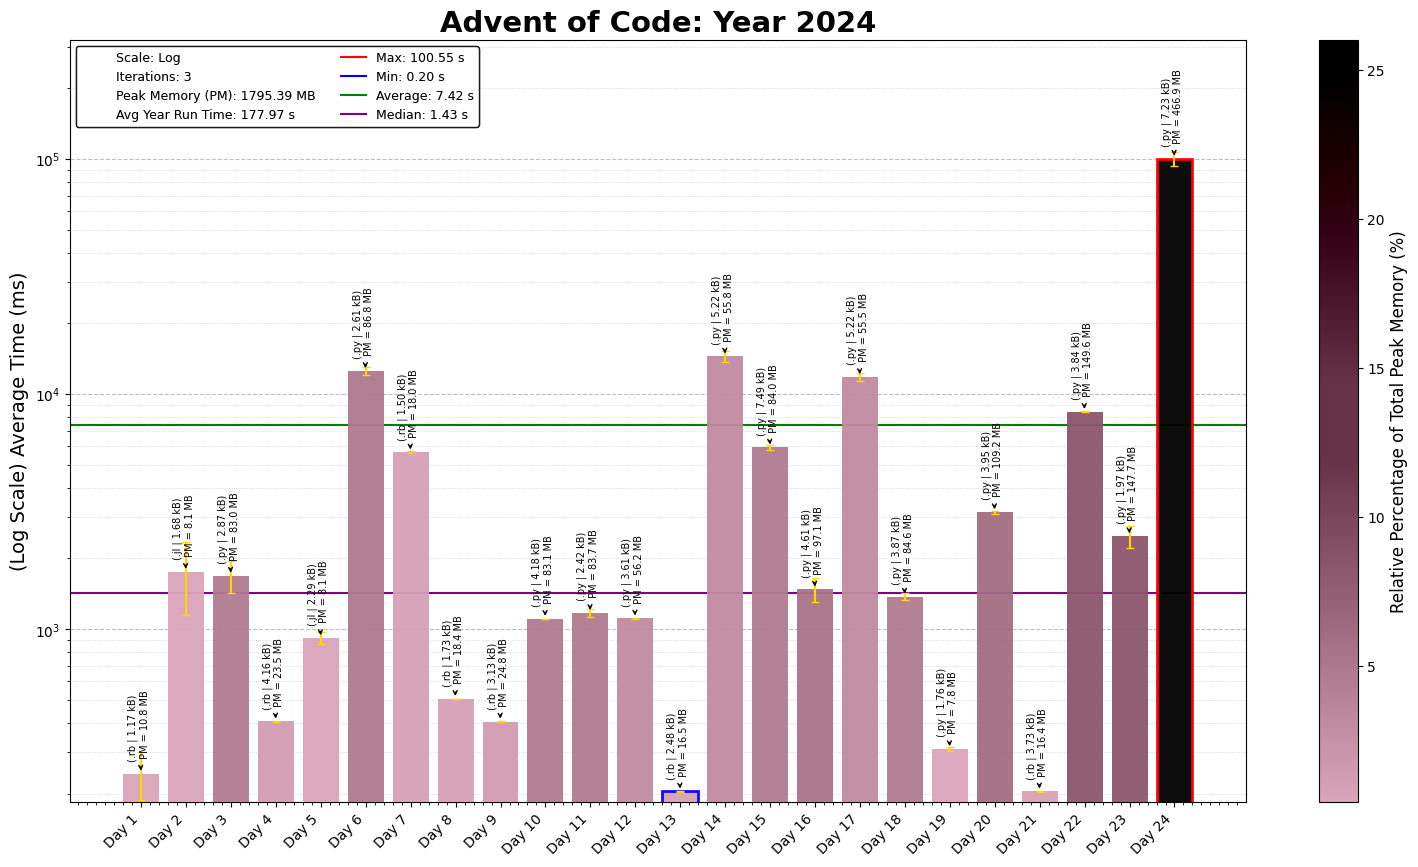
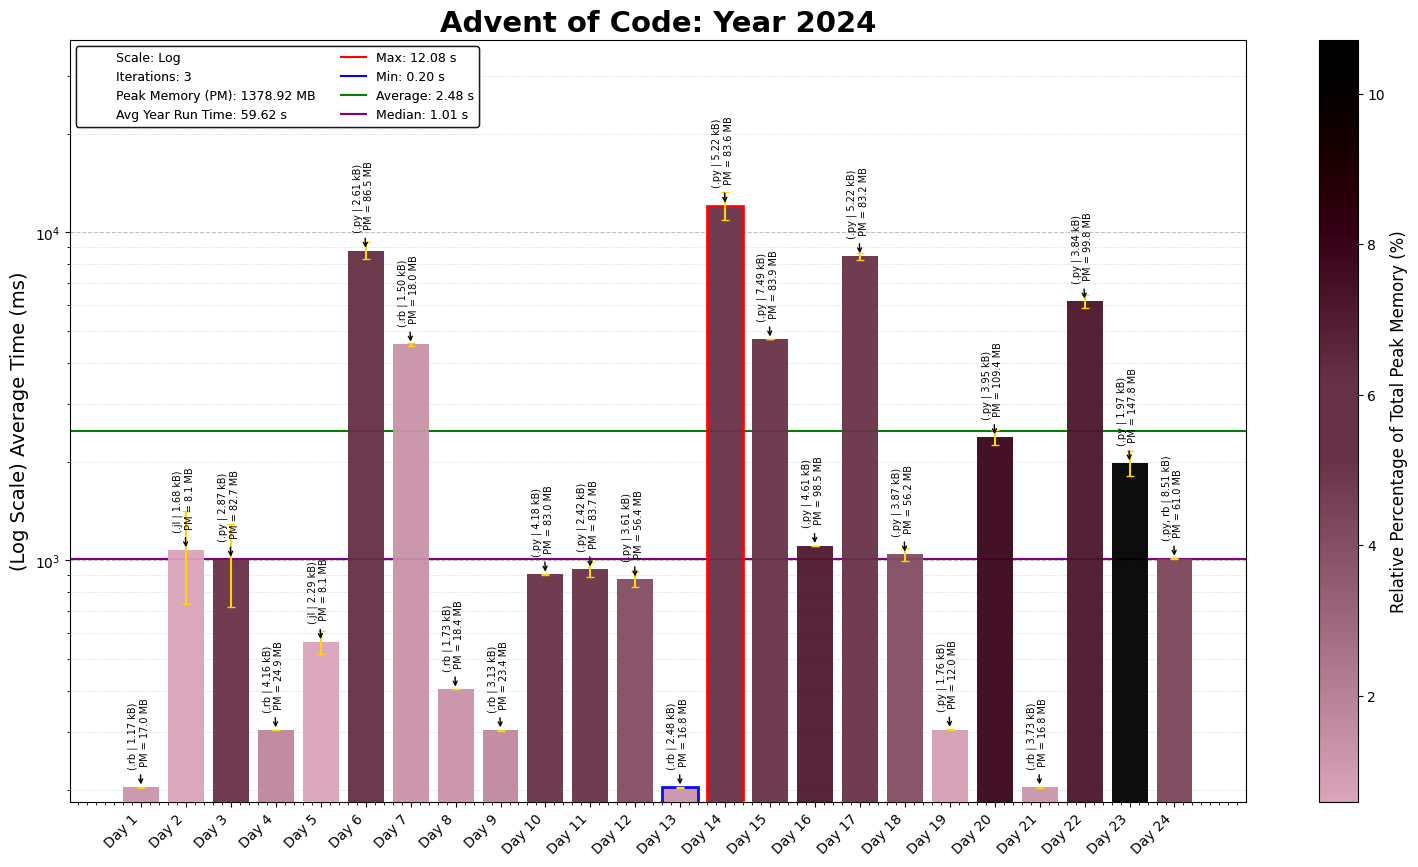
2024 Day 24 P2 Faster Ruby

Changed region(s): [[0.0621, 0.0934, 0.8688, 0.9343], [0.1551, 0.1246, 0.2172, 0.1557]]

diff --git a/2024/24/2024Day24_P2.rb b/2024/24/2024Day24_P2.rb
@@ -1,0 +1,117 @@
+=begin
+Advent of Code - Day 24, Year 2024
+Solution Started: Dec 24, 2024
+Puzzle Link: https://adventofcode.com/2024/day/24
+Solution by: abbasmoosajee07
+Brief: [Code/Problem Description]
+=end
+
+#!/usr/bin/env ruby
+
+require 'pathname'
+
+# Define file name and extract complete path to the input file
+D24_file = "Day24_input.txt"
+D24_file_path = Pathname.new(__FILE__).dirname + D24_file
+
+# Read the input data
+input_data = File.readlines(D24_file_path).map(&:strip)
+
+def read_input_file(file_path)
+  # Reads the input file and returns a list of lines as strings
+  File.readlines(file_path).map(&:strip)
+end
+
+def find_gate(x_wire, y_wire, gate_type, configurations)
+  # Searches for a gate in the configurations based on the given wire names and gate type
+  sub_str_a = "#{x_wire} #{gate_type} #{y_wire} -> "
+  sub_str_b = "#{y_wire} #{gate_type} #{x_wire} -> "
+
+  configurations.each do |config|
+    if config.include?(sub_str_a) || config.include?(sub_str_b)
+      return config.split(' -> ').last
+    end
+  end
+  nil
+end
+
+def swap_output_wires(wire_a, wire_b, configurations)
+  # Swaps the output wires in the configurations for the given wire names
+  new_configurations = []
+
+  configurations.each do |config|
+    input_wires, output_wire = config.split(' -> ')
+
+    if output_wire == wire_a
+      new_configurations << "#{input_wires} -> #{wire_b}"
+    elsif output_wire == wire_b
+      new_configurations << "#{input_wires} -> #{wire_a}"
+    else
+      new_configurations << config
+    end
+  end
+  new_configurations
+end
+
+def check_parallel_adders(configurations)
+  # Checks for parallel adders in the configurations and returns the wires that need to be swapped
+  current_carry_wire = nil
+  swaps = []
+  bit = 0
+
+  loop do
+    x_wire = "x#{bit.to_s.rjust(2, '0')}"
+    y_wire = "y#{bit.to_s.rjust(2, '0')}"
+    z_wire = "z#{bit.to_s.rjust(2, '0')}"
+
+    if bit == 0
+      # For the first bit, the current carry wire is the AND gate of x0 and y0
+      current_carry_wire = find_gate(x_wire, y_wire, 'AND', configurations)
+    else
+      # For subsequent bits, find XOR and AND gates and process the carry wires
+      ab_xor_gate = find_gate(x_wire, y_wire, 'XOR', configurations)
+      ab_and_gate = find_gate(x_wire, y_wire, 'AND', configurations)
+
+      cin_ab_xor_gate = find_gate(ab_xor_gate, current_carry_wire, 'XOR', configurations)
+      if cin_ab_xor_gate.nil?
+        # If no XOR gate, swap the XOR and AND gates and reset the bit count
+        swaps.push(ab_xor_gate, ab_and_gate)
+        configurations = swap_output_wires(ab_xor_gate, ab_and_gate, configurations)
+        bit = 0
+        next
+      end
+
+      if cin_ab_xor_gate != z_wire
+        # If the XOR gate output is not correct, swap XOR gate and z_wire
+        swaps.push(cin_ab_xor_gate, z_wire)
+        configurations = swap_output_wires(cin_ab_xor_gate, z_wire, configurations)
+        bit = 0
+        next
+      end
+
+      cin_ab_and_gate = find_gate(ab_xor_gate, current_carry_wire, 'AND', configurations)
+
+      carry_wire = find_gate(ab_and_gate, cin_ab_and_gate, 'OR', configurations)
+      current_carry_wire = carry_wire
+    end
+
+    bit += 1
+    break if bit >= 45
+  end
+
+  swaps
+end
+
+def find_all_swaps(lines)
+  # Main function to solve the problem based on parsed input lines
+  divider = lines.index('')
+  configurations = lines[(divider + 1)..-1]
+
+  # Check parallel adders and get the necessary swaps
+  swaps = check_parallel_adders(configurations)
+
+  # Print the result for part 2 (sorted list of swaps)
+  puts "Part 2: #{swaps.sort.join(',')}"
+end
+
+find_all_swaps(input_data)

diff --git a/2024/24/2024Day24_P1.py b/2024/24/2024Day24_P1.py
@@ -66,11 +66,11 @@ def simulate_circuit(wires_init: dict, gates_list: list) -> dict:
 
                 # Perform the logical operation
                 if oper == 'OR':
-                    result = int(all_wires[input_1] == 1 or all_wires[input_2] == 1)
+                    result = all_wires[input_1] ^ all_wires[input_2]
                 elif oper == 'AND':
-                    result = int(all_wires[input_1] == 1 and all_wires[input_2] == 1)
+                    result = all_wires[input_1] & all_wires[input_2]
                 elif oper == 'XOR':
-                    result = int(all_wires[input_1] != all_wires[input_2])
+                    result = all_wires[input_1] ^ all_wires[input_2]
                 else:
                     raise ValueError(f"Unknown operation: {oper}")
 
@@ -104,79 +104,4 @@ wires_p1 = simulate_circuit(init_wires, gates)
 dec_num_p1 = find_wire_group(wires_p1)
 print("Part 1:", dec_num_p1)
 
-# Initialize gate dictionary
-g = {gate['out']: (gate['op'], gate['inp1'], gate['inp2']) for gate in gates}
-
-# Find maximum index for wire names
-c = max(int(wire[1:]) for wire in g if re.fullmatch(r"z[0-9]+", wire))
-m = 2 ** (c + 1) - 1
-
-# Cache the results of test1 and testn to avoid recomputation
-test1_cache = {}
-testn_cache = {}
-
-# Test function for gate evaluation with memoization
-def test1(e, x, y, s):
-    # Use a tuple to hash the state and avoid recomputation
-    cache_key = tuple(e), x, y, tuple(s.items())
-    if cache_key in test1_cache:
-        return test1_cache[cache_key]
-    
-    v = (
-        {f"x{i:02d}": (x >> i) & 1 for i in range(c)} |
-        {f"y{i:02d}": (y >> i) & 1 for i in range(c)}
-    )
-    for w in e:
-        o, a, b = g[s.get(w, w)]  # Getting the operation and operands
-        if o == "AND":
-            v[w] = v[a] & v[b]
-        elif o == "OR":
-            v[w] = v[a] | v[b]
-        elif o == "XOR":
-            v[w] = v[a] ^ v[b]
-    
-    for i in range(c + 1):
-        if v[f"z{i:02d}"] != ((x + y) >> i) & 1:
-            test1_cache[cache_key] = i
-            return i
-    test1_cache[cache_key] = c + 1
-    return c + 1
-
-# Test function for finding minimum test error with memoization
-def testn(s):
-    # Use a cache to store results of testn function
-    cache_key = tuple(s.items())
-    if cache_key in testn_cache:
-        return testn_cache[cache_key]
-    
-    try:
-        e = [
-            w for w in graphlib.TopologicalSorter(
-                {s.get(w, w): {a, b} for w, (o, a, b) in g.items()}
-            ).static_order() if w in g
-        ]
-        result = min(
-            test1(e, x, y, s)
-            for x, y in ((m, 0), (0, m), (m, 1), (1, m), (m, m))
-        )
-        testn_cache[cache_key] = result
-        return result
-    except graphlib.CycleError:
-        testn_cache[cache_key] = 0
-        return 0
-
-# Start solving the problem
-s = {}
-while len(s) < 8:
-    a, b = max(
-        ((a, b) for a in g for b in g if a < b and a not in s and b not in s),
-        key=lambda p: testn(s | {p[0]: p[1], p[1]: p[0]})
-    )
-    s.update({a: b, b: a})
-
-# Output the sorted result of wires that were updated
-swapped_wires = ",".join(sorted(s))
-print("Part 2:", swapped_wires)
-
-# Print the elapsed time
 print(time.time() - start_time)

diff --git a/2024/README_2024.md b/2024/README_2024.md
@@ -27,4 +27,4 @@ This repository contains coding solutions for the 2024 Advent of Code. Its the f
 21. **Day 21- Keypad Conundrum**: *Ruby* | While orignally I tried using a BFS to find path from each key to next, it became way tto memory intensive for the depths required in part 2, and switched to a more tailored algorithm focused on the absolute difference between two points
 22. **Day 22- Monkey Market**: *Python* | Essentially about finding patterns in a list of random numbers, which I ended up using a dictionary of lists to find the optimum point across all the 1600 lists.
 23. **Day 23- LAN Party**: *Python* | Used the gift of a library that is networkx, which may not be as elegant but it is a solution after all.
-24. **Day 24- Crossed Wires**: *Python* | Built a circuit network, fairly simple Part 1, Part 2 is taking quite long so needs to be optimised
+24. **Day 24- Crossed Wires**: *Python* | Built a circuit network, fairly simple Part 1, Found a relativey fast solution for Part 2 that works on my input, but seems to get stuck on the examples
